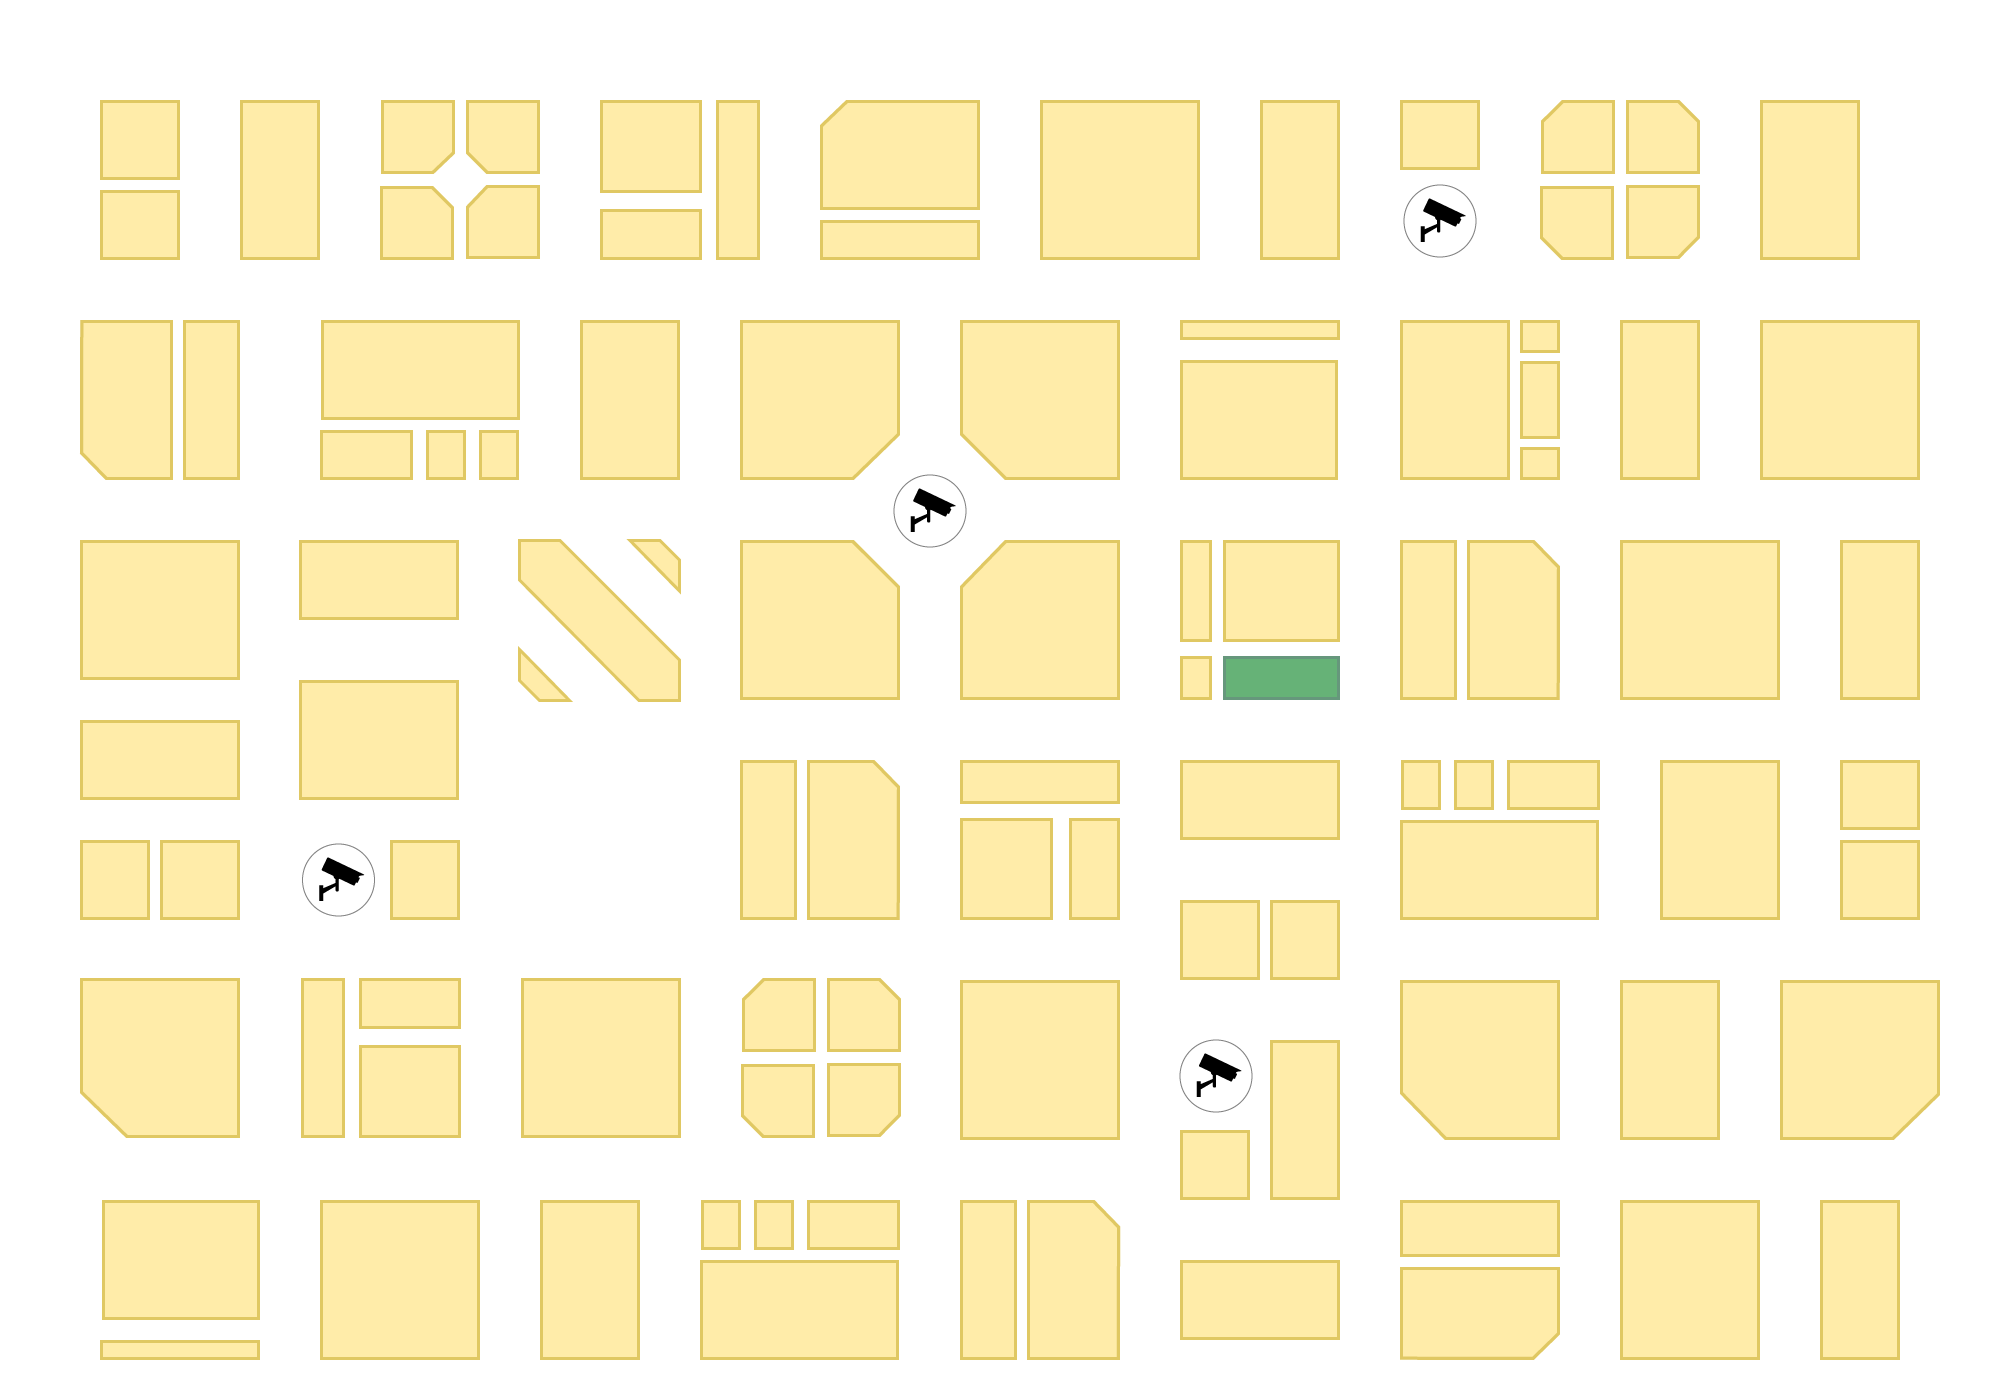
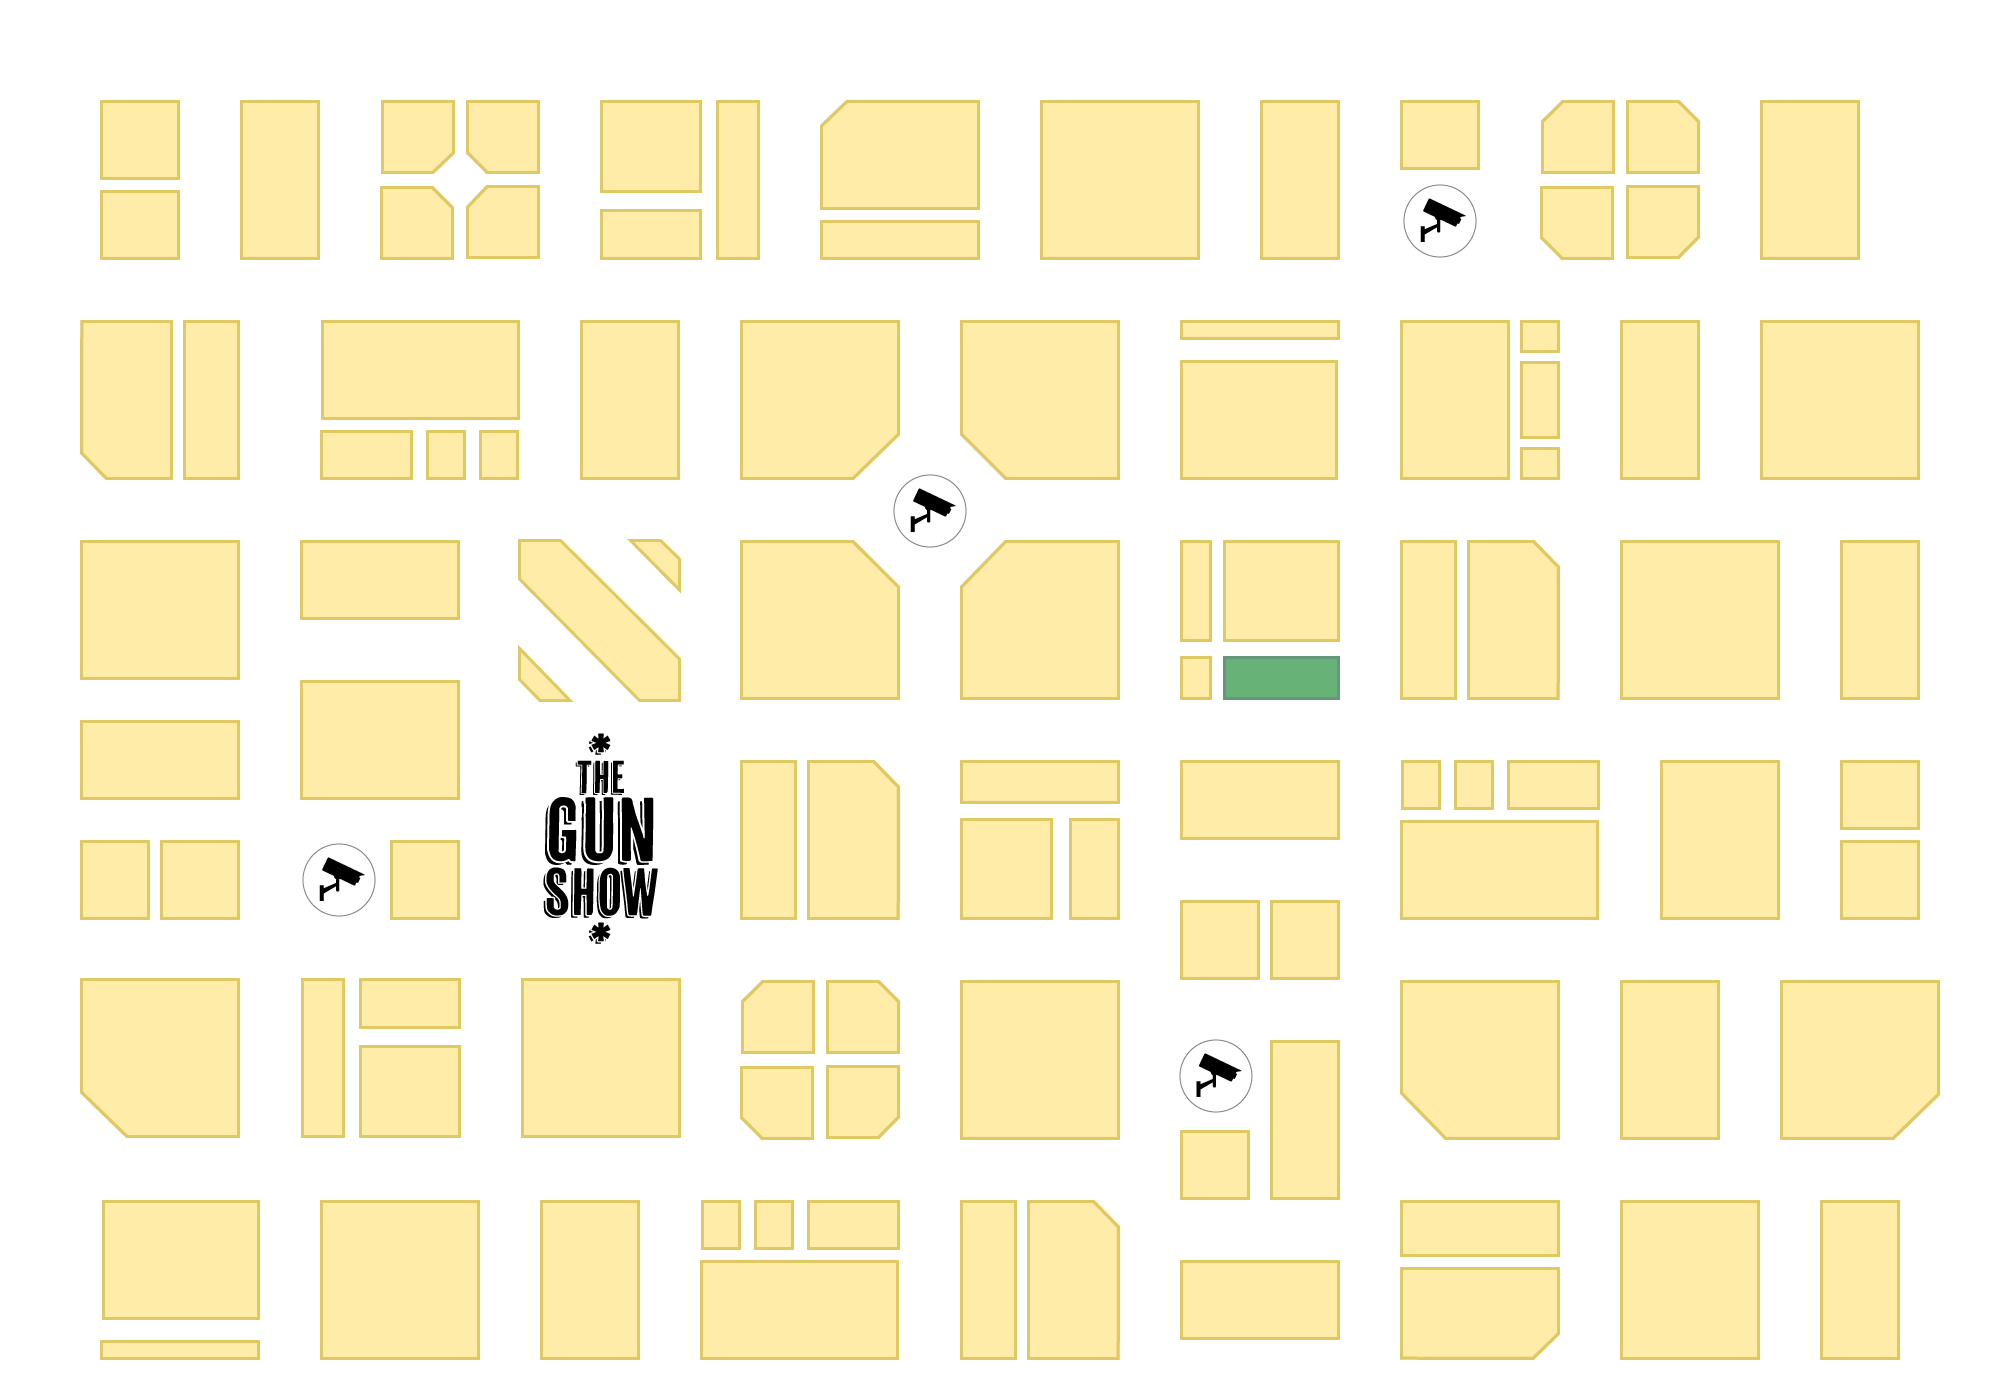
new character, menu bar

Changed region(s): [[0.248, 0.5221, 0.341, 0.6757], [0.372, 0.7371, 0.465, 0.7679], [0.372, 0.7986, 0.403, 0.8293]]

diff --git a/public/javascripts/gunshow.js b/public/javascripts/gunshow.js
@@ -53,6 +53,13 @@
         .addClass("presentation")
         .hide()
         .appendTo(self.$el);
+
+
+      // Create the info bar
+      self.$infoBar = $("<div />")
+        .addClass("info-bar")
+        .hide()
+        .appendTo(self.el);
       
 
       // Register booths
@@ -67,6 +74,9 @@
           self.options.booths[i].width);
         booth.background_url = self.options.booths[i].background_url;
         booth.booth_url = self.options.booths[i].booth_url;
+        booth.number = self.options.booths[i].number;
+        booth.title = self.options.booths[i].title;
+        booth.show_title = self.options.booths[i].show_title;
 
         // Create the visual object
         var $booth = $("<div />")
@@ -84,6 +94,23 @@
           .css("max-width", "100%")
           .css("max-height", "100%")
           .appendTo($booth);
+
+        // Booth Number
+        if(booth.number != "") {
+          var $booth_number = $("<div />")
+            .addClass("booth-number")
+            .html(booth.number)
+            .appendTo($booth);
+        }
+
+        // Booth Title
+        if(booth.show_title) {
+          $booth.append("<br />");
+          var $booth_title = $("<div />")
+            .addClass("booth-title")
+            .html(booth.title)
+            .appendTo($booth)
+        }
 
         booth.$el = $booth;
         self.options.booths[i] = booth;
@@ -199,6 +226,9 @@
       var self = this;
       if(self.currentBooth != booth) {
         self.currentBooth = booth;
+
+        self.$infoBar.html("<h1>" + booth.title + "</h1>")
+
         self.setViewport(
           booth.x,
           booth.y,
@@ -228,12 +258,13 @@
 
     setViewport: function(x, y, height, width) {
       var self = this;
-      self.$viewport.css("height", height);
-      self.$viewport.css("width", width);
-      self.$viewport.css("bottom", height=="100%"?0:10);
-      self.$viewport.css("left", width == "100%"?0:($(document).width() - width) / 2);
-      self.$floor.css("top", -(y + (width=="100%"?self.floorOffsetTop:0)));
-      self.$floor.css("left", -(x + (width=="100%"?self.floorOffsetLeft:0)));
+      console.log(height);
+      self.$viewport.css("height", height=="100%"?height:(height + 20));
+      self.$viewport.css("width", width=="100%"?width:(width  + 20));
+      self.$viewport.css("top", 0);
+      self.$viewport.css("left", 0);
+      self.$floor.css("top", -(y + (width=="100%"?self.floorOffsetTop:(-10))));
+      self.$floor.css("left", -(x + (width=="100%"?self.floorOffsetLeft:(-10))));
     }
   };
 

diff --git a/public/stylesheets/style.css b/public/stylesheets/style.css
@@ -14,6 +14,29 @@ a {
  */
 
 #gunshow {
+  position: fixed;
+  top: 50px;
+  left: 0px;
   height: 100%;
   width: 100%;
+}
+
+#navigation {
+	position: fixed;
+	top: 0px;
+	left: 0px;
+	height: 50px;
+	background: #000;
+	width: 100%;
+	z-index: 3;
+}
+#navigation li { list-style: none; float: left; }
+#navigation li.logo a { display: block; height: 26px; width: 160; background: url('../images/menubar.png') 0 0;}
+#navigation li.guided-tours a { display: block; height: 26px; width: 130; background: url('../images/menubar.png') -192 0; margin-left: 50px; }
+#navigation li.create-booth a { display: block; height: 26px; width: 155; background: url('../images/menubar.png') -350 0; margin-left: 50px; }
+#navigation li.about-show a { display: block; height: 26px; width: 160; background: url('../images/menubar.png') -525 0; margin-left: 50px; }
+#navigation li.contact-us a { display: block; height: 26px; width: 110; background: url('../images/menubar.png') -715 0; margin-left: 50px; }
+
+#countdown {
+	display: none;
 }

diff --git a/public/index.html b/public/index.html
@@ -36,7 +36,7 @@
           var $roamingCharacter = $("#roaming_character");
           $roamingCharacter.GunshowCharacter();
 
-          $character.data("GunshowCharacter").enterSpace($gunshow.data("Gunshow"));
+          $character.data("GunshowCharacter").enterSpace($gunshow.data("Gunshow"), 600, 800);
           $roamingCharacter.data("GunshowCharacter").enterSpace($gunshow.data("Gunshow"), 100, 100);
 
           if ('WebSocket' in window) {
@@ -88,10 +88,18 @@
     </script>
   </head>
   <body>
+    <div id="navigation">
+      <ul>
+        <li class="logo"><a></a></li>
+        <li class="guided-tours"><a></a></li>
+        <li class="create-booth"><a></a></li>
+        <li class="about-show"><a></a></li>
+        <li class="contact-us"><a></a></li>
+      </ul>
+    </div>
     <div id="character"></div>
     <div id="roaming_character"></div>
-    <div id="gunshow">
-      <div id="countdown"></div>
-    </div>
+    <div id="gunshow"></div>
+    <div id="countdown"></div>
   </body>
 </html>

diff --git a/public/stylesheets/gunshow.css b/public/stylesheets/gunshow.css
@@ -31,7 +31,9 @@
   left: 0px;
   height: 15px;
   width: 15px;
-  background-color: #b8ff5c;
+  border-radius: 15px;
+  border: 2px solid #007eaa;
+  background-color: #00b1ff;
 }
 
 .presentation {
@@ -49,4 +51,21 @@
 
 #countdown {
   float: right;
+}
+
+.booth-number {
+  background-color: #0930D0;
+  padding: 2px;
+  color: #fff;
+  display: inline-block;
+  margin-left: 4px;
+  margin-top: 4px;
+}
+
+.booth-title {
+  background-color: #0930D0;
+  padding: 2px;
+  color: #fff;
+  display: inline-block;
+  margin-left: 4px;
 }

diff --git a/public/javascripts/classes/booth.js b/public/javascripts/classes/booth.js
@@ -5,4 +5,5 @@ function GunshowBooth(x, y, height, width) {
 	this.width = width;
 	this.background_url = "";
 	this.booth_url = "";
+	this.number = "";
 }
